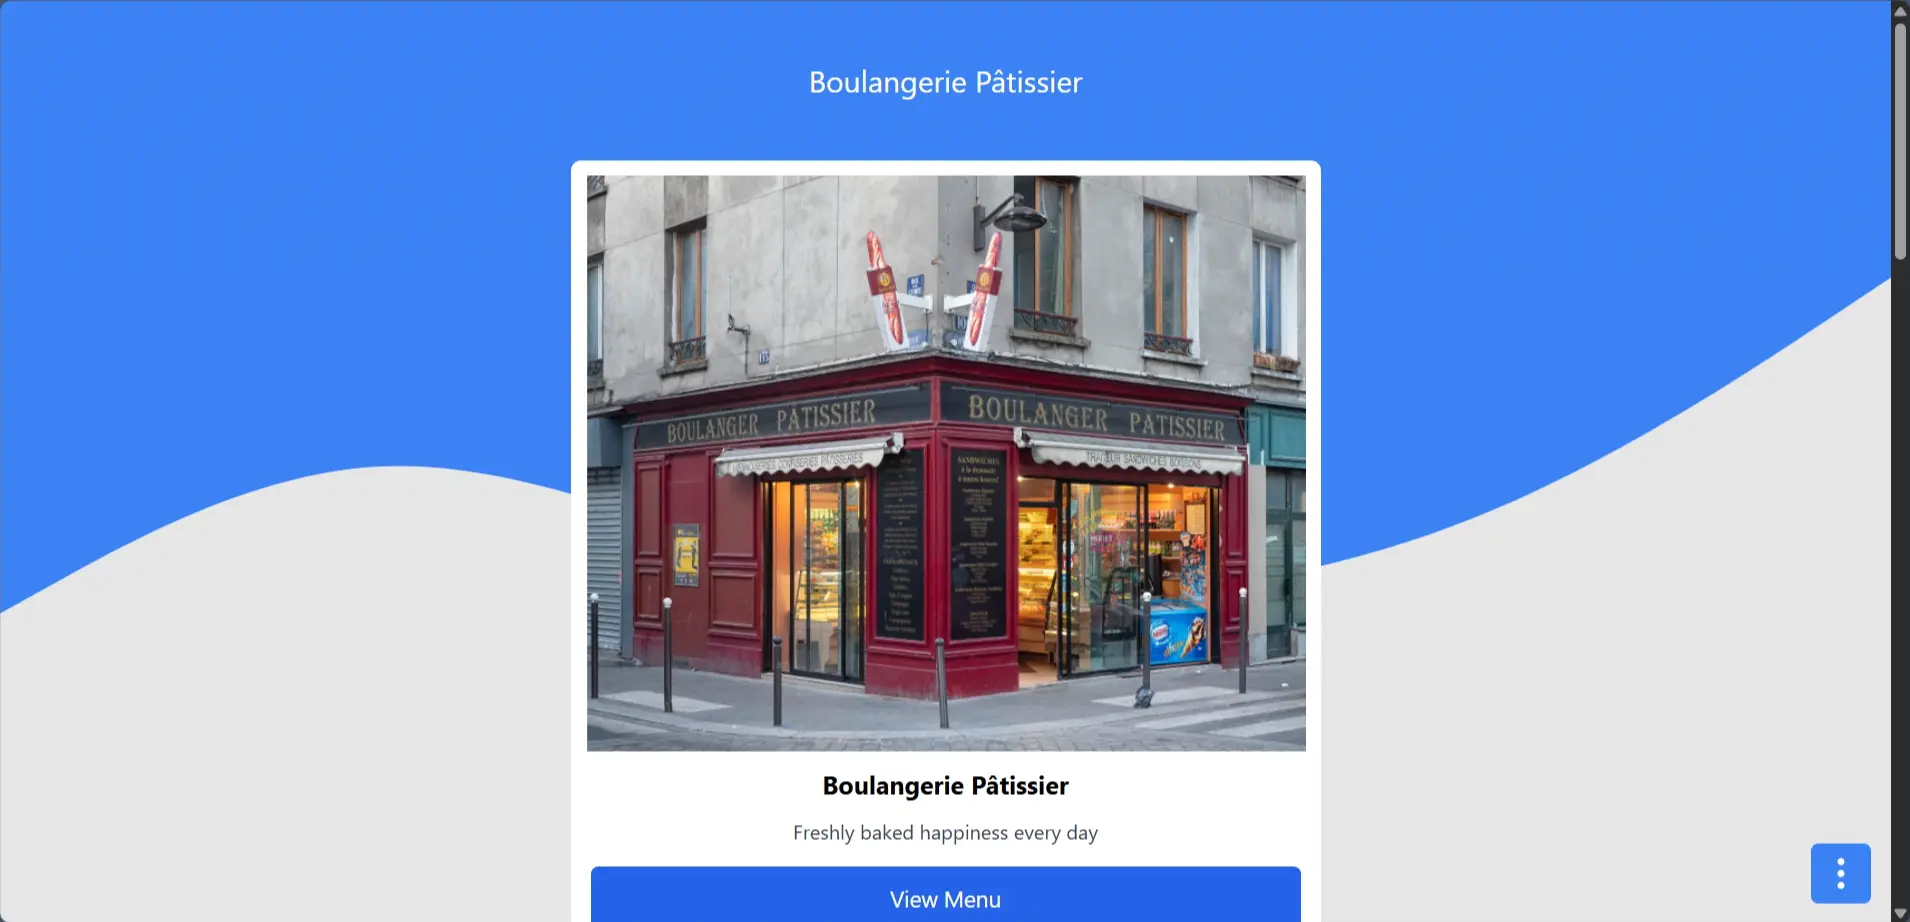
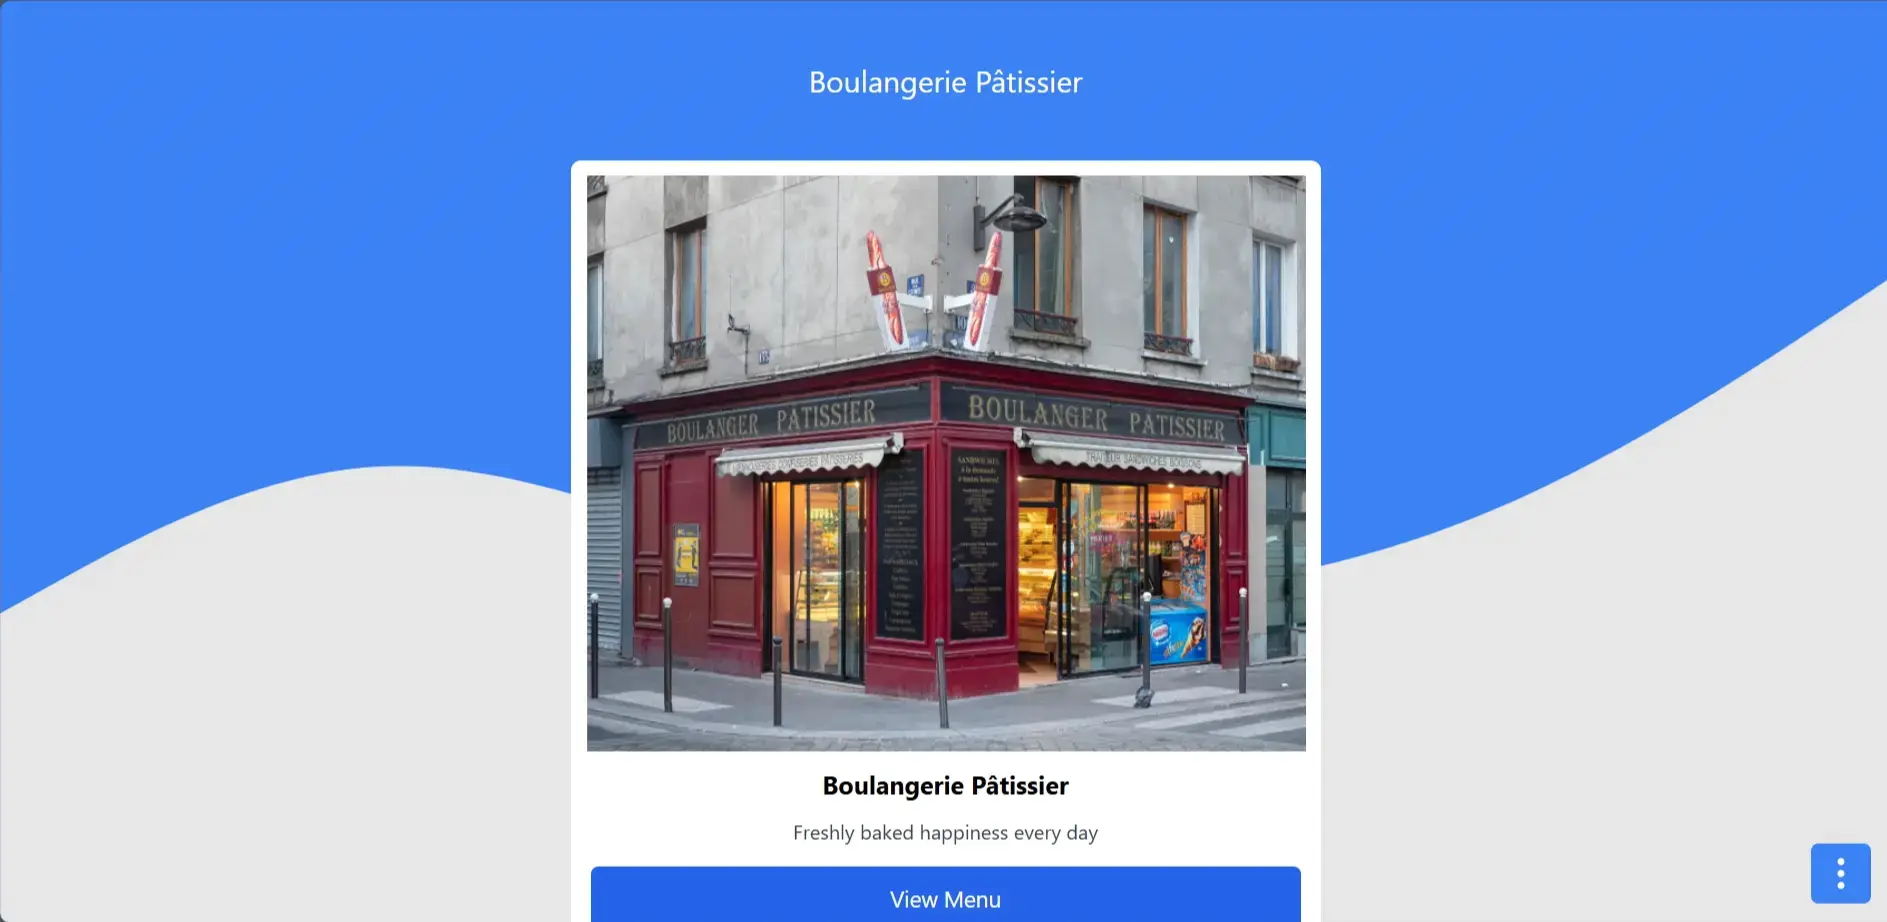
mod

diff --git a/src/components/Project-card.vue b/src/components/Project-card.vue
@@ -1,27 +1,27 @@
 <template>
   <div
-    class="mx-auto flex flex-col md:flex-row-reverse gap-8 p-6 md:pb-4 md:p-0 rounded-lg md:rounded-none border md:border-b-2 md:border-0 border-primary md:border-black shadow-sm hover:shadow-md md:hover:shadow-none md:shadow-none transition-all duration-300"
+    class="mx-auto max-w-[350px] h-fit my-auto xl:max-w-max xl:w-3/4 flex flex-col xl:flex-row-reverse gap-8 p-6 xl:pb-4 xl:p-0 rounded-lg xl:rounded-none xl:border-b-2 xl:border-black shadow-xl hover:shadow-xl xl:hover:shadow-none xl:shadow-none transition-all duration-300 bg-white xl:bg-transparent"
   >
     <a
       :href="project.link"
       target="_blank"
-      class="md:w-1/2 h-auto shadow overflow-hidden rounded-lg"
+      class="xl:w-1/2 h-auto overflow-hidden rounded-lg"
     >
       <img
         :src="project.image"
         alt="Project Screenshot"
-        class="w-full h-full object-cover transition-transform duration-500 hover:scale-[1.1] cursor-pointer"
+        class="object-cover transition-transform duration-500 hover:scale-[1.1] cursor-pointer"
         loading="lazy"
       />
     </a>
 
-    <div class="md:w-1/2 flex flex-col justify-between py-1 md:py-2">
+    <div class="xl:w-1/2 flex flex-col justify-between py-1 xl:py-2">
       <div>
-        <h2 class="text-2xl md:text-3xl font-bold text-gray-900 mb-3 md:mb-4">
+        <h2 class="text-2xl xl:text-4xl font-bold text-gray-900 mb-3 xl:mb-5">
           {{ project.name }}
         </h2>
 
-        <p class="text-gray-600 text-base md:text-[15px] leading-relaxed mb-6">
+        <p class="text-gray-600 text-base xl:text-base leading-relaxed mb-6">
           {{ project.description }}
         </p>
       </div>
@@ -32,9 +32,7 @@
         rel="noopener noreferrer"
         class="inline-flex items-center border-b border-black w-fit text-black transition-all"
       >
-        <span
-          class="pb-0.5 transition-all hover:font-medium hover:tracking-wider"
-        >
+        <span class="pb-0.5 transition-all hover:tracking-wider">
           See the live demo
         </span>
         <svg

diff --git a/src/components/Work.vue b/src/components/Work.vue
@@ -1,5 +1,7 @@
 <template>
-  <div class="flex flex-wrap md:flex-col gap-10">
+  <div
+    class="grid grid-cols-1 md:grid-cols-2 lg:grid-cols-3 xl:grid-cols-1 gap-10"
+  >
     <project-card
       v-for="project in projects"
       :key="project"
@@ -67,6 +69,17 @@ export default {
     };
   },
   components: { ProjectCard },
+  computed: {
+    subArr() {
+      var length = Math.ceil(this.data.length / 2);
+
+      const result = new Array(length).fill().map((i) => {
+        return this.data.splice(0, length);
+      });
+
+      return result;
+    },
+  },
 };
 </script>
 
